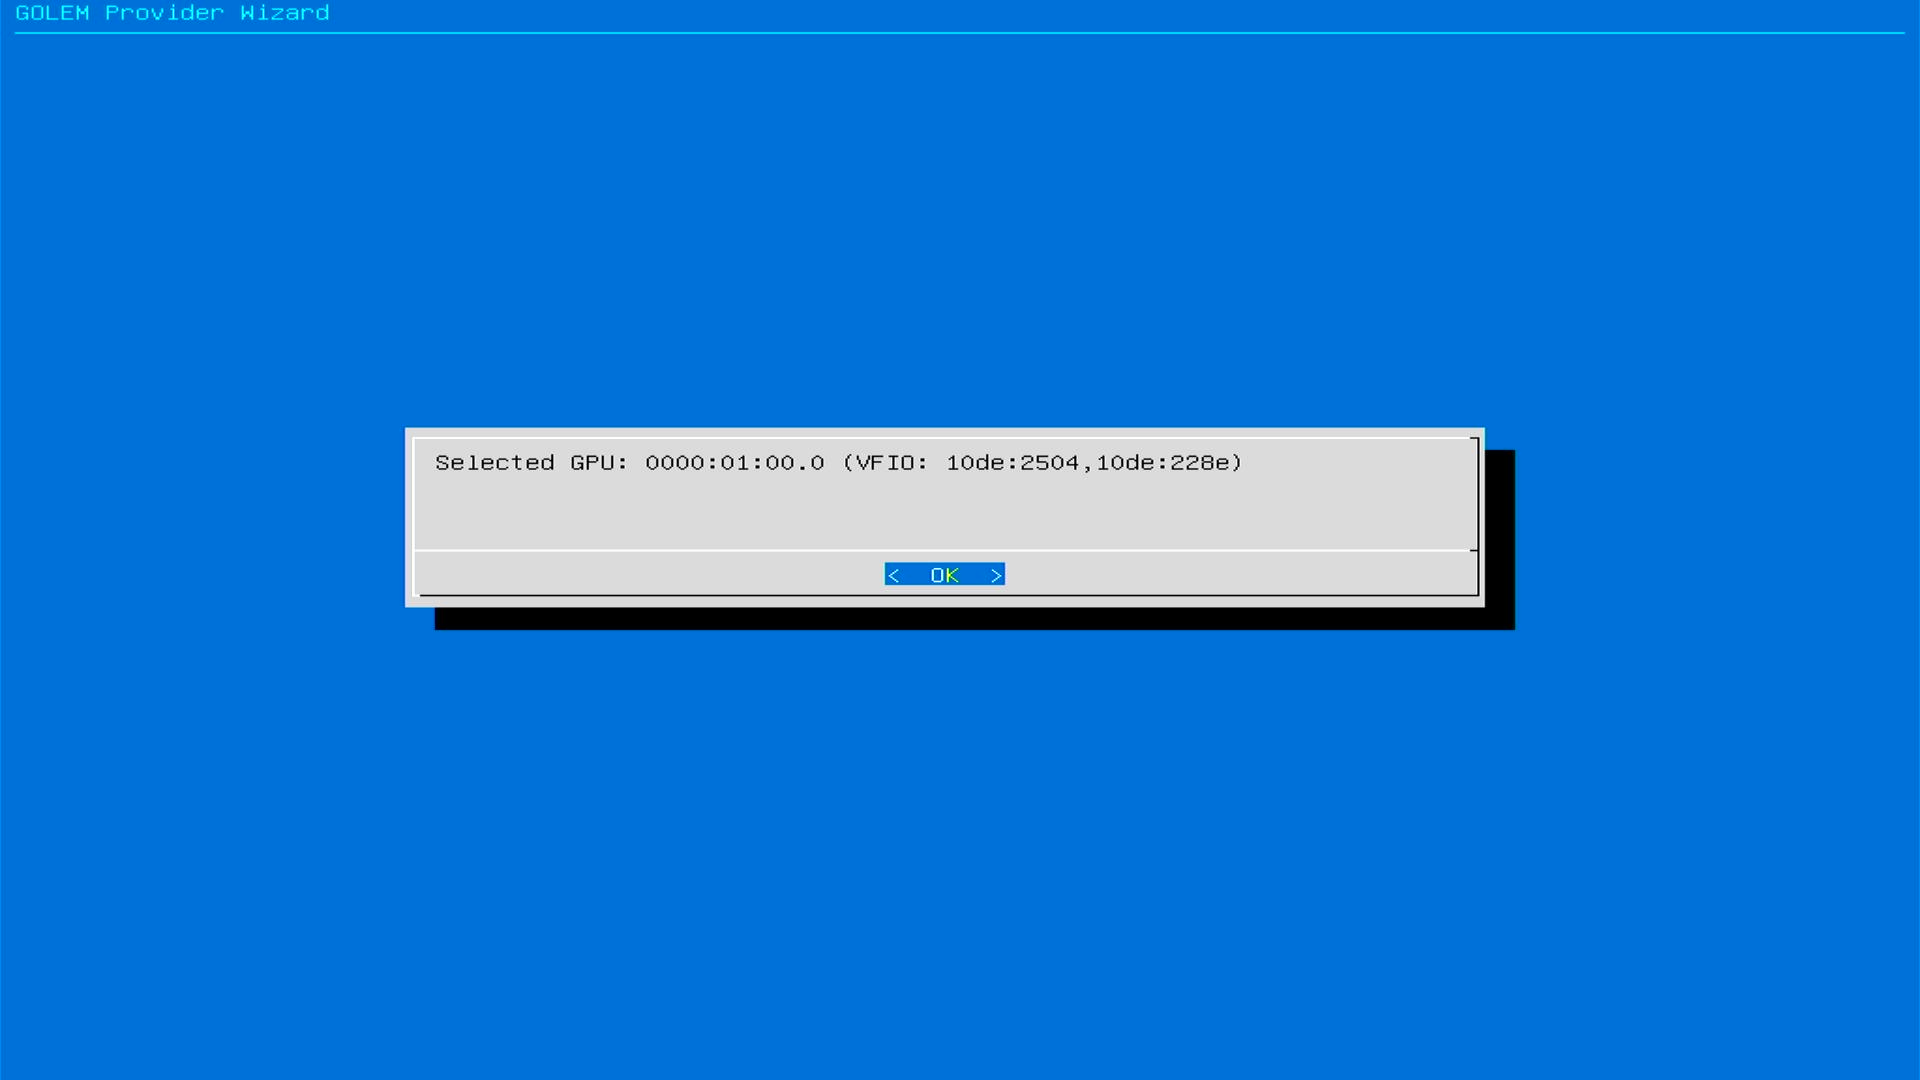
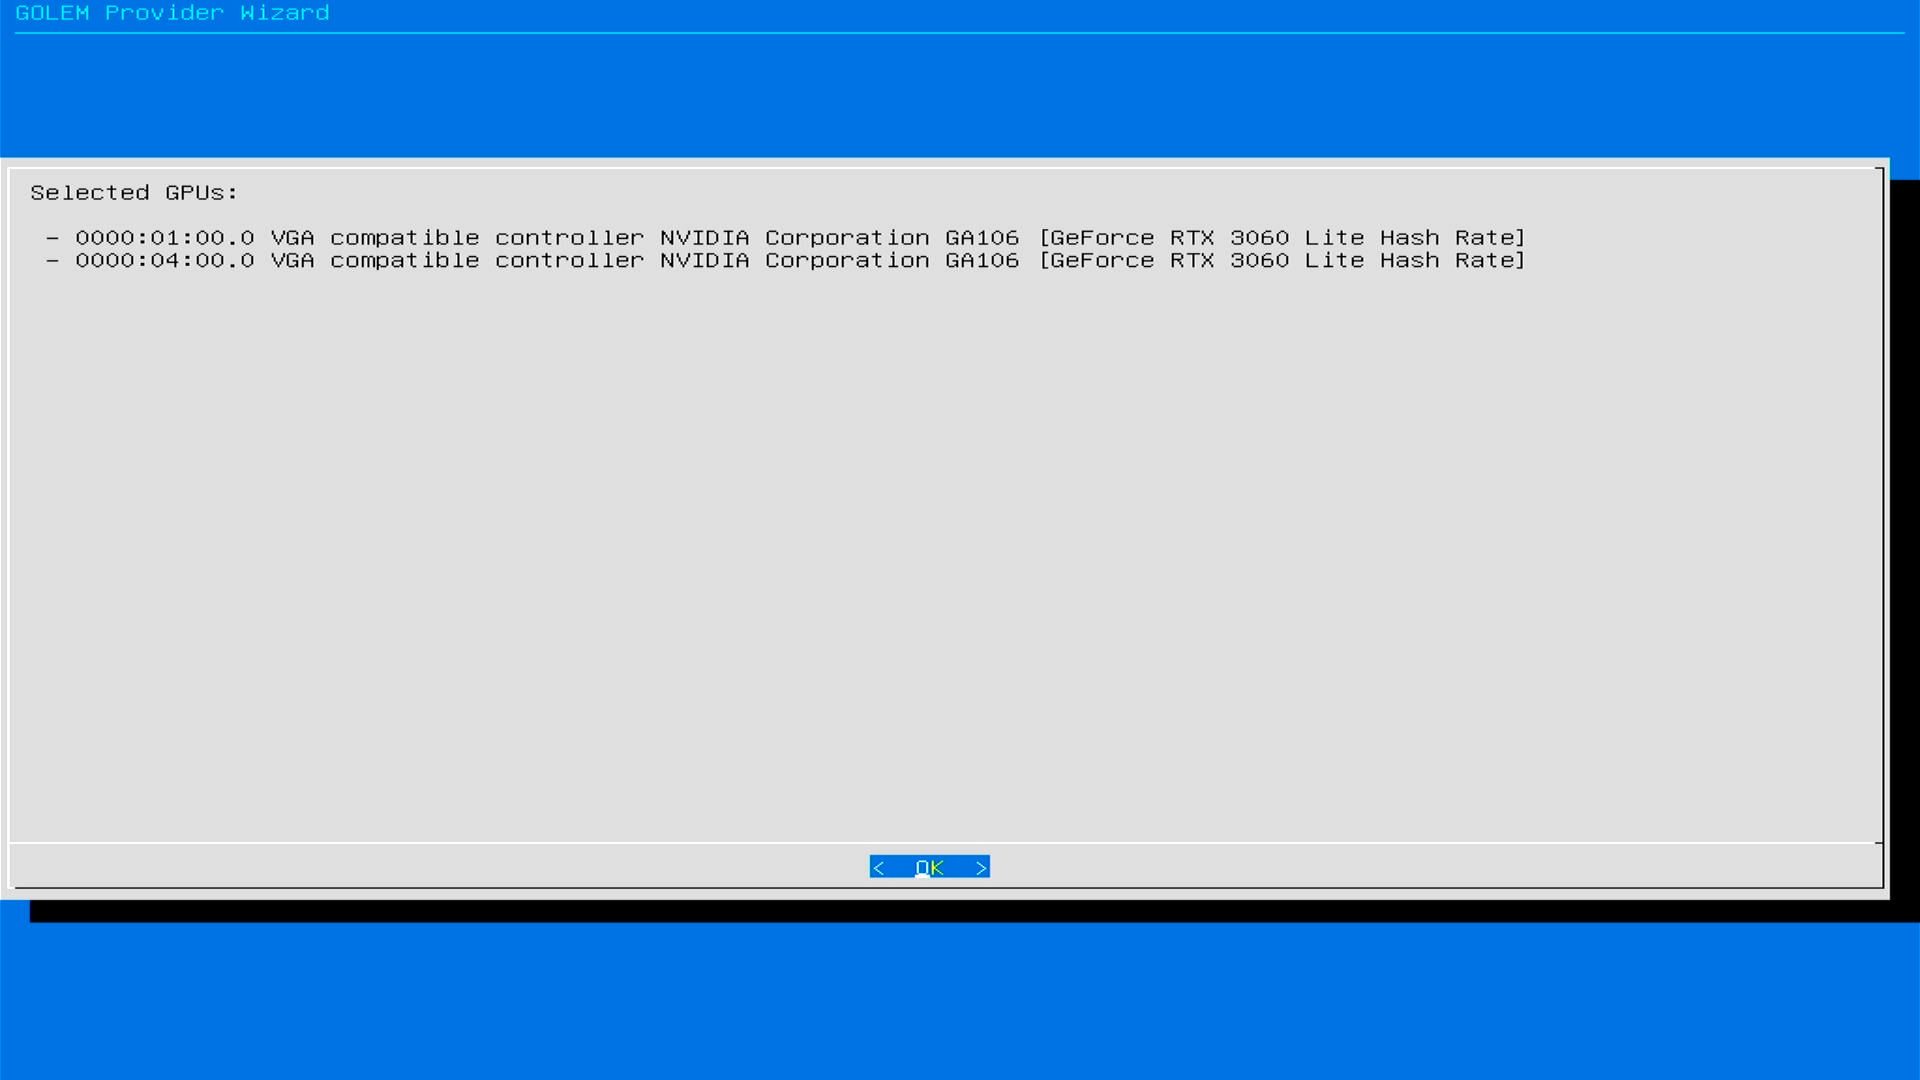
Update of screenshots and addition of multi-GPU support.

diff --git a/src/pages/docs/providers/gpu/gpu-golem-live.md b/src/pages/docs/providers/gpu/gpu-golem-live.md
@@ -102,22 +102,22 @@ sudo dd if=Downloads/golem-gpu-live-latest.img of=/dev/sdX bs=4M status=progress
 ##### **Using balenaEtcher (alternative)**
 
 1. **Select Image:** In balenaEtcher, click "Flash from file" and choose `golem-gpu-live-latest.img`.
-   - ![Flash from file](/gpu/balena_1.png) 
+![Flash from file](/gpu/balena_1.png) 
 
 2. **Select Target:** Click "Select target" and choose your SSD. **Double-check** you've chosen the right drive!
-   - ![Select target 1](/gpu/balena_2.png)
-   - ![Select target 2](/gpu/balena_3.png)
+![Select target 1](/gpu/balena_2.png)
+![Select target 2](/gpu/balena_3.png)
 
 3. **Flash:** Click "Flash!" to begin. Confirm with "Yes, I'm sure" if prompted.
-   - ![Flash!](/gpu/balena_4.png)
-   - ![Yes, I'm sure](/gpu/balena_5.png)
+![Flash!](/gpu/balena_4.png)
+![Yes, I'm sure](/gpu/balena_5.png)
 
 4. **Progress:** balenaEtcher will show a progress bar. This can take 5-10 minutes.
-   - ![Flashing 1](/gpu/balena_6.png)
-   - ![Flashing 2](/gpu/balena_7.png)
-   - ![Flashing 3](/gpu/balena_8.png)
-   - ![Flashing 4](/gpu/balena_9.png)
-   - ![Flashing 5](/gpu/balena_10.png)
+![Flashing 1](/gpu/balena_6.png)
+![Flashing 2](/gpu/balena_7.png)
+![Flashing 3](/gpu/balena_8.png)
+![Flashing 4](/gpu/balena_9.png)
+![Flashing 5](/gpu/balena_10.png)
 
 ### 3. Boot from the SSD
 
@@ -126,7 +126,7 @@ sudo dd if=Downloads/golem-gpu-live-latest.img of=/dev/sdX bs=4M status=progress
 3. **Boot Menu:** Enter your BIOS/UEFI boot menu (usually `F12`, `F2`, `Esc`, or `Del`).
 4. **Select SSD:** Select the SSD with `gpu-golem-live`.  **Make sure to choose UEFI OS mode**.
 
-   - ![Bios booting](/gpu/bios_1.png)
+![Bios booting](/gpu/bios_1.png)
 
 #### Setting the SSD as the Default Boot Device (Optional)
 
@@ -137,34 +137,36 @@ To always boot from the SSD when connected:
 3. **Prioritize SSD:**  Make the SSD the first boot option.
 4. **Save and Exit:** Save your changes and exit BIOS.
 
-   - ![Bios settings 2](/gpu/bios_2.png)
+![Bios settings 2](/gpu/bios_2.png)
 
 ### 4. Configure the GPU Provider
 
 1. **Select OS:** Press `Enter` to choose **GOLEM GPU Live**.
-   - ![Bios settings 3](/gpu/bios_3.png)
+![Bios settings 3](/gpu/bios_3.png)
 2. **Welcome:** Click "OK."
-   - ![Setup GPU Golem Live 1](/gpu/setup_1.png)
+![Setup GPU Golem Live 1](/gpu/setup_1.png)
 3. **Terms of Use:** Read and accept by selecting "YES".
-   - ![Setup GPU Golem Live 2](/gpu/setup_2.png)
+![Setup GPU Golem Live 2](/gpu/setup_2.png)
 4. **Persistent Storage:** Select a partition on your SSD for storing provider data.
-   - ![Setup GPU Golem Live 3](/gpu/setup_3.png)
+![Setup GPU Golem Live 3](/gpu/setup_3.png)
 5. **Password:**  A random password will be generated. **Write it down securely** for future SSH access.
-   - ![Setup GPU Golem Live 4](/gpu/setup_4.png)
+![Setup GPU Golem Live 4](/gpu/setup_4.png)
 6. **Network Configuration:** Write down the IP address shown (needed for SSH).
-   - ![Setup GPU Golem Live 5](/gpu/setup_5.png)
+![Setup GPU Golem Live 5](/gpu/setup_5.png)
 7. **Ethereum Wallet:** Enter your wallet address to receive your GLM earnings.
-   - ![Setup GPU Golem Live 6](/gpu/setup_6.png)
+![Setup GPU Golem Live 6](/gpu/setup_6.png)
 8. **Set Price:** Enter your desired hourly rate in GLM.
-   - ![Setup GPU Golem Live 7](/gpu/setup_7.png)
-9. **GPU Selection:** Choose the GPU you want to use with Golem.
-   - ![Setup GPU Golem Live 9](/gpu/setup_9.png)
-   - ![Setup GPU Golem Live 10](/gpu/setup_10.png)
-10. **Confirmation:** Click "OK" to finalize. Your computer will restart, and the provider will start running (your monitor might go blank, this is normal).
-
-    - ![Setup GPU Golem Live - Done 1](/gpu/setup_11.png)
-    - ![Setup GPU Golem Live - Done 2](/gpu/setup_12.png)
-    - ![Setup GPU Golem Live - Done 3](/gpu/setup_13.png)
+![Setup GPU Golem Live 7](/gpu/setup_7.png)
+9. **GPU Selection:** The Golem GPU Provider supports **multiple graphics cards**. If your computer has several GPUs, you can select one or more cards at this step. Choose the GPUs you want Golem GPU Provider to manage by pressing the spacebar.
+![Setup GPU Golem Live 9](/gpu/setup_9.png)
+![Setup GPU Golem Live 10](/gpu/setup_10.png)
+10. **Confirmation:** Click "OK" to finalize.
+![Setup GPU Golem Live - Done 1](/gpu/setup_11.png)
+11. **Node name** (optional): Enter a name for your provider. It will be visible within the network and on Golem Network Stats. You can skip this step, and a name will be generated automatically. 
+![Setup GPU Golem Live - Done 2](/gpu/setup_12.png)
+Your computer will restart, and the provider will start running (your monitor might go blank, this is normal).
+![Setup GPU Golem Live - Done 2](/gpu/setup_13.png)
+![Setup GPU Golem Live - Done 3](/gpu/setup_14.png)
 
 ### 5. Monitoring Your GPU Provider
 
@@ -250,6 +252,19 @@ Use the IP from step 6 and the password from step 5.
    ```
 
    Enter your SSH password when asked. The logs will be downloaded to your current directory.
+
+---
+
+### How do I check the provider’s status?
+
+1. Connect to your provider via SSH.
+2. Run:
+
+   ```bash
+   golemsp status
+   ```
+
+   Enter your SSH password when asked. From the displayed table, you can view the provider’s status, network affiliation, and payments.
 
 ---
 
